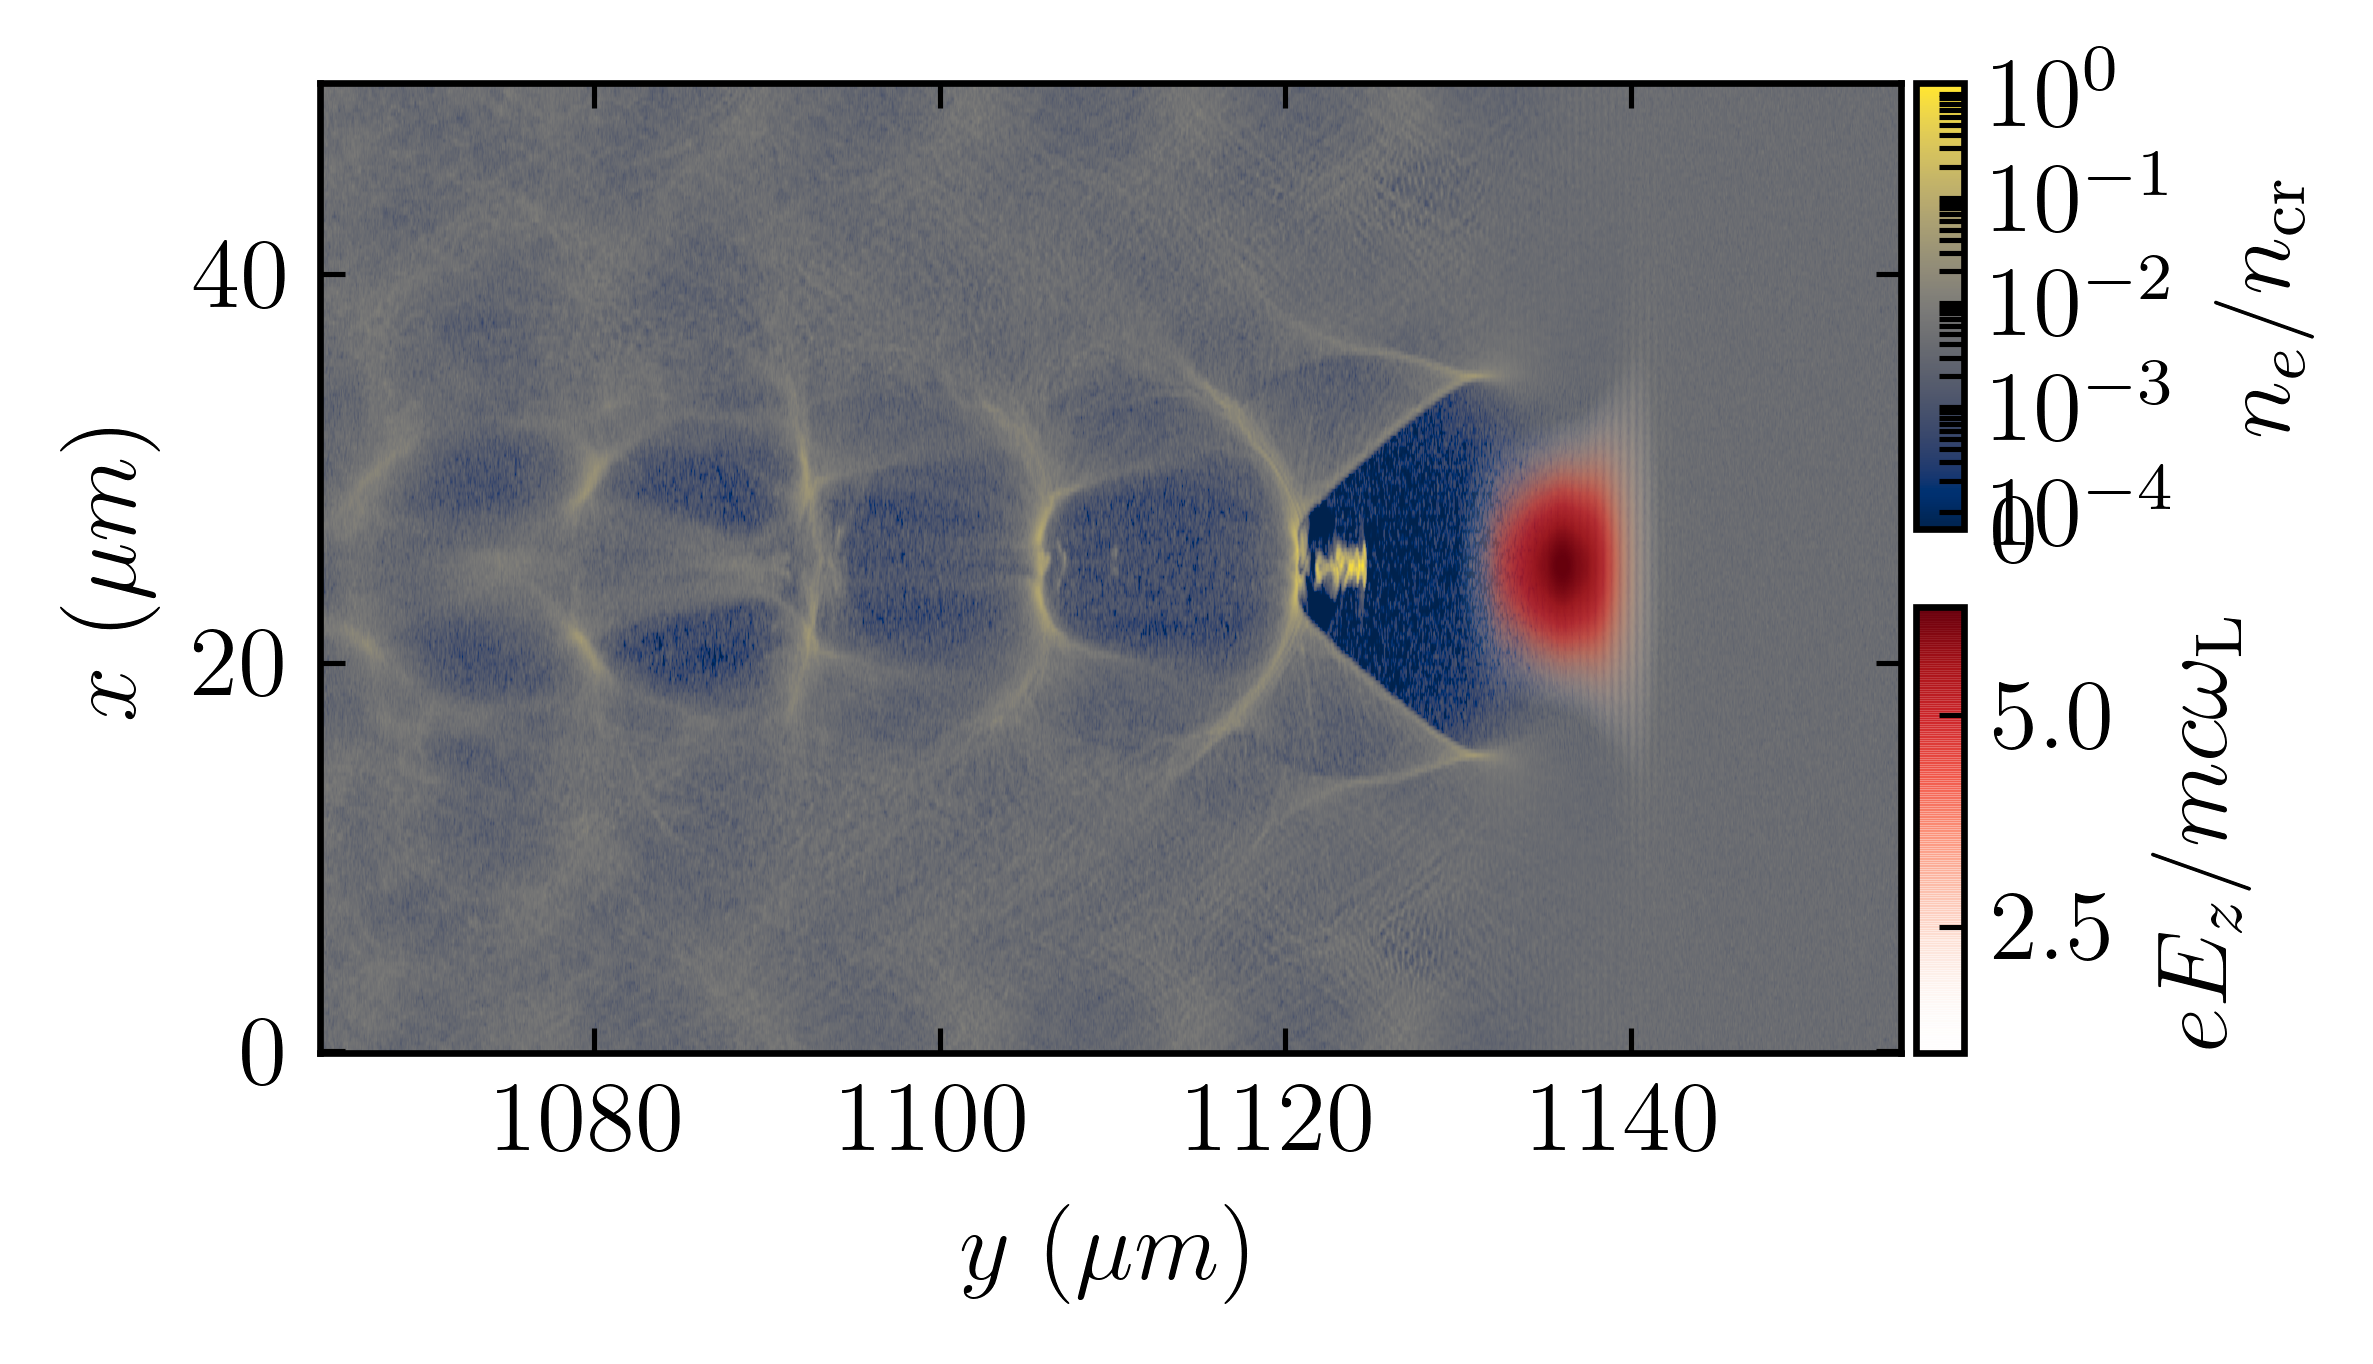
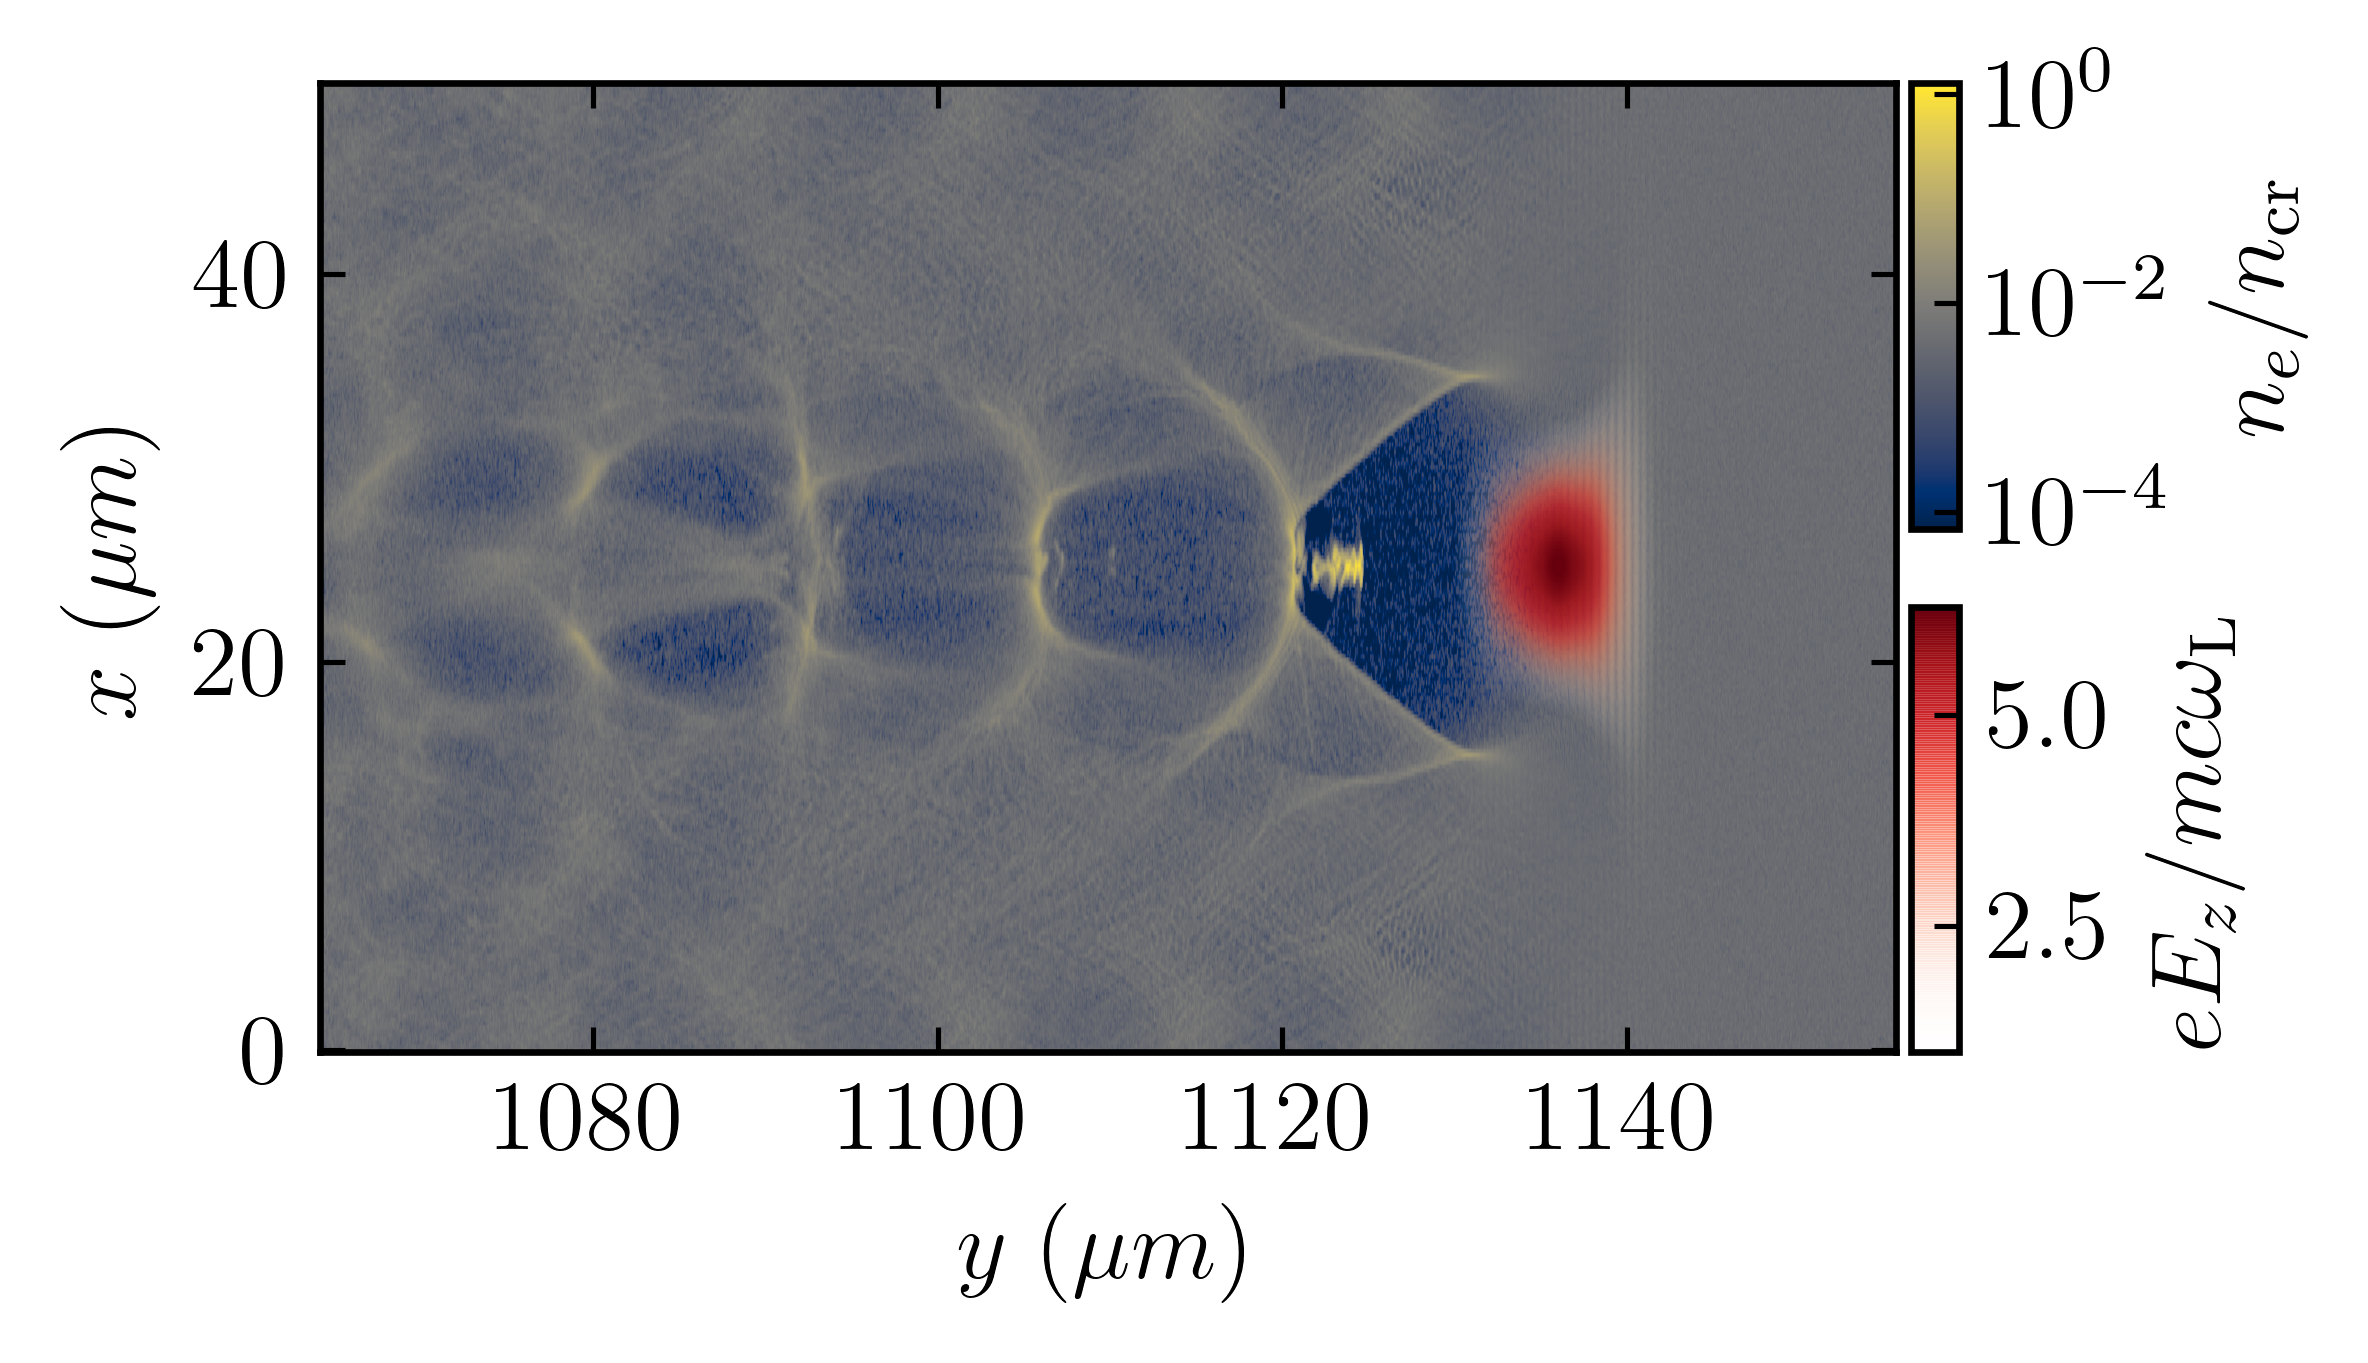
update colorbar

diff --git a/laser_density.py b/laser_density.py
@@ -1,21 +1,25 @@
+#!/usr/bin/env python
+# coding: utf-8
 import pathlib
 from copy import copy
 from openpmd_viewer import addons
-from matplotlib import pyplot, colors, cm, rcParams
+import matplotlib.pyplot as plt
+from matplotlib import colors, cm, rcParams
 from mpl_toolkits.axes_grid1.inset_locator import inset_axes
 import unyt as u
 from prepic import lwfa
 import numpy as np
 from scipy.signal import hilbert
-import colorcet as cc
+#import colorcet as cc
+import custom_colormap as cc
 import figformat
 
 fig_width, fig_height, params = figformat.figure_format(fig_width=3.4)
 rcParams.update(params)
 
-my_cmap = copy(cc.cm.fire)
-my_cmap.set_under("k", alpha=0)
-
+#my_cmap = copy(cc.cm.fire)
+#my_cmap.set_under("k", alpha=0)
+cc.colormap_alpha('Reds')
 
 a0 = 2.4 * u.dimensionless  # Laser amplitude
 tau = 25.0e-15 / 2.354820045 * u.second  # Laser duration
@@ -51,8 +55,7 @@ electric, electric_info = ts.get_field(
 e_complx = hilbert(electric, axis=0)
 envelope = np.abs(e_complx)
 
-
-fig, ax = pyplot.subplots(figsize=(fig_width, fig_height))
+fig, ax = plt.subplots(figsize=(fig_width, fig_height))
 
 im_rho = ax.imshow(
     np.flipud(np.rot90(rho / n_c)),
@@ -67,7 +70,7 @@ im_envelope = ax.imshow(
     extent=np.roll(electric_info.imshow_extent * 1e6, 2),
     origin="lower",
     aspect="auto",
-    cmap=my_cmap,
+    cmap='Reds_alpha',
 )
 im_envelope.set_clim(vmin=1.0)
 
@@ -97,15 +100,13 @@ cbar_rho = fig.colorbar(
 )
 cbar_env.set_label(r"$eE_{z} / m c \omega_\mathrm{L}$")
 cbar_rho.set_label(r"$n_{e} / n_\mathrm{cr}$")
-
-
+cbar_rho.set_ticks([1e-4,1e-2,1e0])
 # Add the name of the axes
 ax.set_ylabel(r"${} \;(\mu m)$".format(rho_info.axes[1]))
 ax.set_xlabel(r"${} \;(\mu m)$".format(rho_info.axes[0]))
 
-
 fig.savefig(
-    "laser_density.png",
+    pathlib.Path.cwd()/"laser_density.png",
     dpi=600,
     transparent=False,
     bbox_inches="tight",
